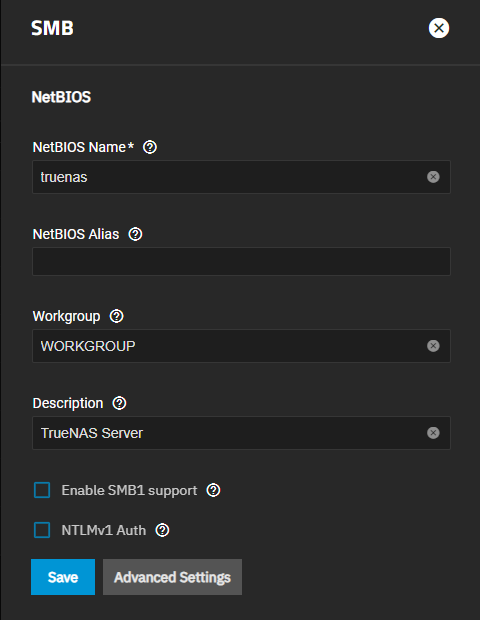
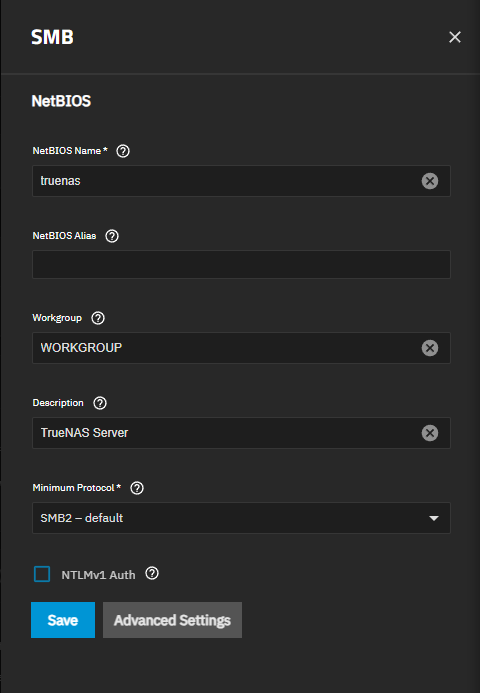
DOCS-2575 / 27 / DOCS-2575-document-change-to-smb-1-support-setting (#4598)
* DOCS-2575-document-change-to-smb-1-support-setting

* Update SMBSharesScreens.md

---------

Pull request: DOCS-2575 / 27 / DOCS-2575-document-change-to-smb-1-support-setting
Thanks for contributing to TrueNAS documentation! By opening a Pull Request, you're acknowledging that your changes will be distributed under the [Creative Commons 4.0](https://creativecommons.org/licenses/by-nc-sa/4.0/) license.

diff --git a/content/SCALE/SystemSettings/Services/SMBServicesScreen.md b/content/SCALE/SystemSettings/Services/SMBServicesScreen.md
@@ -34,7 +34,7 @@ Click **Save** or **Cancel** to close the configuration screen and return to the
 | **NetBIOS Alias** | Enter alias names (maximum 15 characters each). Cannot contain: `\ / : * ? " < > |`. Cannot use Microsoft or RFC 852 reserved words. TrueNAS 25.04 and later enforce these restrictions. Separate multiple aliases with a space between them. |
 | **Workgroup** | Enter a name that matches the Windows workgroup name (maximum 15 characters). Cannot contain: `\ / : * ? " < > |`. Cannot use Microsoft or RFC 852 reserved words. TrueNAS 25.04 and later enforce these restrictions. If you do not configure a workgroup and Active Directory is active, TrueNAS detects and sets the correct workgroup from Active Directory. |
 | **Description** | (Optional) Enter any notes or descriptive details about the service configuration. |
-| **Enable SMB1 support** | Select to allow legacy SMB1 clients to connect to the server (see caution below). SMB audit logging does not work when using SMB1. |
+| **Minimum Protocol** | Select the minimum SMB protocol version the server accepts from clients. Default is **SMB2**. <br><li>**SMB1 – legacy clients (not recommended)** allows SMB1 connections in addition to SMB2/3. Use only when an older client requires SMB1. SMB audit logging is not available and transport encryption cannot be set to **Required**.</li><li>**SMB2 – default** accepts SMB2 dialect 2.04 and later, including SMB3. Disables SMB1.</li><li>**SMB3 – modern clients only** restricts access to clients that support the SMB3 (3.0+) dialect family. Could break access for embedded devices that only support SMB2.</li> |
 | **NTLMv1 Auth** | Off by default. Select to allow [smbd](https://www.samba.org/samba/docs/current/man-html/smbd.8.html) attempts to authenticate users with the insecure and vulnerable NTLMv1 encryption. This setting allows backward compatibility with older versions of Windows, but we do not recommend it. Do not use on untrusted networks. |
 {{< /truetable >}}
 
@@ -50,14 +50,14 @@ Click **Save** or **Cancel** to close the configuration screen and return to the
 | Setting | Description |
 |---------|-------------|
 | **UNIX Charset** | Select the character set to use internally from the dropdown list of options. **UTF-8** is standard for most systems as it supports all characters in all languages. |
-| **Transport Encryption Behavior** | Select the option for the level of transport encryption to implement. Options and behaviors:<br><li>**Default - follow upstream/TrueNAS default** <br><li>**Negotiate - only encrypt transport if explicitly requested by the SMB client** <br><li>**Desired - encrypt transport if supported by client during session negotiation** <br><li>**Required - always encrypt transport (rejecting access if client does not support encryption - incompatible with SMB1 server `enable_smb1`)** </li>the TrueNAS and Samba default behavior allows SMB clients to negotiate different encryption levels for SMB shares. When set to **Default**, there is no technical limitation preventing an SMB client from negotiating an encrypted session if it is required. **Default** enables negotiating encryption but does not turn on data encryption globally per share. For more information on SMB1 and SMB2 session or per-share encryption, see [Samba Server SMB Encrypt(s)](https://www.samba.org/samba/docs/current/man-html/smb.conf.5.html#SERVERSMBENCRYPT). For more information on using Windows client-side SMB signing, see [Windows SMB Signing Policies](https://learn.microsoft.com/en-us/troubleshoot/windows-server/networking/overview-server-message-block-signing#policy-locations-for-smb-signing). |
+| **Transport Encryption Behavior** | Select the option for the level of transport encryption to implement. Options and behaviors:<br><li>**Default - follow upstream/TrueNAS default** <br><li>**Negotiate - only encrypt transport if explicitly requested by the SMB client** <br><li>**Desired - encrypt transport if supported by client during session negotiation** <br><li>**Required - always encrypt transport (rejecting access if client does not support encryption - incompatible with Minimum Protocol set to SMB1)** </li>the TrueNAS and Samba default behavior allows SMB clients to negotiate different encryption levels for SMB shares. When set to **Default**, there is no technical limitation preventing an SMB client from negotiating an encrypted session if it is required. **Default** enables negotiating encryption but does not turn on data encryption globally per share. For more information on SMB1 and SMB2 session or per-share encryption, see [Samba Server SMB Encrypt(s)](https://www.samba.org/samba/docs/current/man-html/smb.conf.5.html#SERVERSMBENCRYPT). For more information on using Windows client-side SMB signing, see [Windows SMB Signing Policies](https://learn.microsoft.com/en-us/troubleshoot/windows-server/networking/overview-server-message-block-signing#policy-locations-for-smb-signing). |
 | **Use Debug** | Select to log more detailed information about SMB. By default, TrueNAS logs error and warning-level messages. We do not recommend enabling debug logging for production servers as it can generate large log files and impact performance. |
 | **Use Syslog Only** | Select to log authentication failures in <file>/var/log/messages</file> instead of the default <file>/var/log/samba4/log.smbd</file>. |
 | **Local Master** | Selected by default and determines if the system participates in a browser election. Leave cleared when the network contains an Active Directory server or when Vista or Windows 7 machines are present. |
 | **Enable Apple SMB2/3 Protocol Extensions** | Select to allow MacOS to use these [protocol extensions](https://support.apple.com/en-us/HT210803) to improve the performance and behavioral characteristics of SMB shares. TrueNAS requires Apple SMB2/3 protocol extensions for Time Machine support and **Final Cut Pro Storage Share** workflows. You must enable this setting before creating shares with the **Time Machine Share** or **Final Cut Pro Storage Share** purpose options. |
 | **Multichannel** | SMB multichannel allows servers to use multiple network connections simultaneously by combining the bandwidth of several network interface cards (NICs) for better performance. SMB multichannel does not function if you combine NICs into a link aggregation. |
 | **Enable Search (Spotlight)** | Allows macOS clients to use Spotlight to search for file contents on SMB shares. Enables the TrueSearch indexing service, which indexes all enabled, non-encrypted SMB shares. Requires an Enterprise license or TrueNAS Connect configuration. When the setting is unavailable, a notice displays with a link to configure TrueNAS Connect. Encrypted datasets are not indexed. |
-| **Stateful Failover** | Available in High Availability (HA) configurations with an Enterprise license. Maintains SMB session state across HA failover events. SMB clients recover existing connections without re-authentication after a controller failover. This setting is incompatible with **Enable SMB1 support** and with shares using the **Multi-Protocol Share** or **Legacy Share** purpose. |
+| **Stateful Failover** | Available in High Availability (HA) configurations with an Enterprise license. Maintains SMB session state across HA failover events. SMB clients recover existing connections without re-authentication after a controller failover. This setting is incompatible with **Minimum Protocol** set to **SMB1** and with shares using the **Multi-Protocol Share** or **Legacy Share** purpose. |
 {{< /truetable >}}
 
 {{< trueimage src="/images/SCALE/SystemSettings/SMBServiceAdvanced2.png" alt="SMB Service Advanced Settings (continued)" id="SMB Service Advanced Settings (continued)" >}}

diff --git a/content/SCALE/SystemSettings/Services/SMBService.md b/content/SCALE/SystemSettings/Services/SMBService.md
@@ -32,7 +32,7 @@ Enter a name that matches the Windows workgroup name in **Workgroup**. TrueNAS d
 
 {{< include file="/static/includes/NetBIOSValidationWarning.md" >}}
 
-If using SMB1 clients, select **Enable SMB1 support** to allow legacy SMB1 clients to connect to the server. Note: SMB1 is deprecated. We advise upgrading clients to operating system versions that support modern SMB protocols.
+Use **Minimum Protocol** to set the minimum SMB version the server accepts from clients. The default **SMB2** is appropriate for most environments. Select **SMB1 – legacy clients (not recommended)** only when an older client requires SMB1 connections. SMB1 is deprecated, and selecting it disables audit logging and prevents setting transport encryption to **Required**. We advise upgrading legacy clients to operating system versions that support modern SMB protocols. Select **SMB3 – modern clients only** to restrict access to clients that support the SMB3 dialect family, but note this could break access for embedded devices that only support SMB2.
 
 If you plan to use the insecure and vulnerable NTLMv1 encryption, select **NTLMv1 Auth** to allow [smbd](https://www.samba.org/samba/docs/current/man-html/smbd.8.html) attempts to authenticate users.
 This setting enables backward compatibility with older versions of Windows, but we do not recommend it. Do not use on untrusted networks.
@@ -61,7 +61,7 @@ Click in the **Transport Encryption Behavior** field to select the option and be
 * **Default - follow upstream/TrueNAS default**
 * **Negotiate - only encrypt transport if explicitly requested by the SMB client**
 * **Desired - encrypt transport if supported by client during session negotiation**
-* **Required - always encrypt transport (rejecting access if client does not support encryption - incompatible with SMB1 server `enable_smb1`)**
+* **Required - always encrypt transport (rejecting access if client does not support encryption - incompatible with Minimum Protocol set to SMB1)**
 
 Select the **Default** option to use the TrueNAS current behavior.
 If set to default, there is no technical limitation preventing an SMB client from negotiating an encrypted session if required.

diff --git a/content/SCALE/Shares/SMB/AddManageSMBShares.md b/content/SCALE/Shares/SMB/AddManageSMBShares.md
@@ -412,7 +412,7 @@ Unless you need a specific setting or are configuring a unique network environme
 {{< enterprise >}}
 SMB Stateful Failover requires an Enterprise license and a High Availability (HA) configuration.
 When enabled, this setting is incompatible with:
-- **Enable SMB1 support**
+- **Minimum Protocol** set to **SMB1**
 - Any share using the **Multi-Protocol Share** or **Legacy Share** purpose
 - Any auxiliary SMB parameters
 {{< /enterprise >}}

diff --git a/content/SCALE/Shares/SMB/SMBSharesScreens.md b/content/SCALE/Shares/SMB/SMBSharesScreens.md
@@ -178,7 +178,7 @@ For detailed information about group validation and troubleshooting disabled sha
 {{< truetable >}}
 | Setting | Description |
 |---------|-------------|
-| **Enable Logging** | Enables audit logging for the SMB share and displays two additional options: **Watch List** and **Ignore List**. This controls whether audit messages are generated for the share after configuring at least one list. <br>Note: Auditing is not available when SMB1 support is enabled for the server. <br>Starting in TrueNAS 25.10.1, shares are automatically disabled in the running configuration if the watch or ignore lists contain invalid groups. |
+| **Enable Logging** | Enables audit logging for the SMB share and displays two additional options: **Watch List** and **Ignore List**. This controls whether audit messages are generated for the share after configuring at least one list. <br>Note: Auditing is not available when **Minimum Protocol** is set to **SMB1**  on the [SMB Service screen]({{< ref "SMBServicesScreen.md" >}}). <br>Starting in TrueNAS 25.10.1, shares are automatically disabled in the running configuration if the watch or ignore lists contain invalid groups. |
 | **Watch List** | Specifies groups to audit. Click the field to display the dropdown list of group options. Auditing applies only to user accounts that are members of groups in this list. If the same user belongs to groups in both the **Watch List** and **Ignore List**, the watch list takes precedence, and operations are audited. |
 | **Ignore List** | Specifies groups to exclude from auditing. Click the field to display the dropdown list of group options. If the same user belongs to groups in both the **Watch List** and **Ignore List**, the watch list takes precedence and operations are audited. |
 {{< /truetable >}}